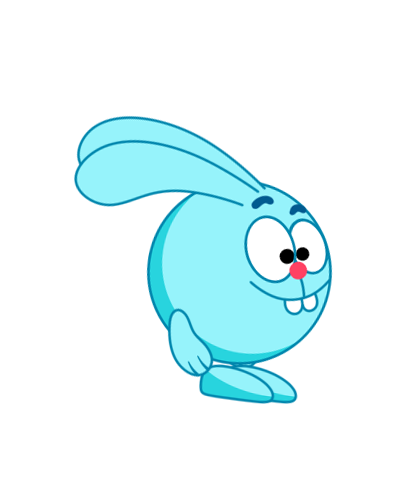
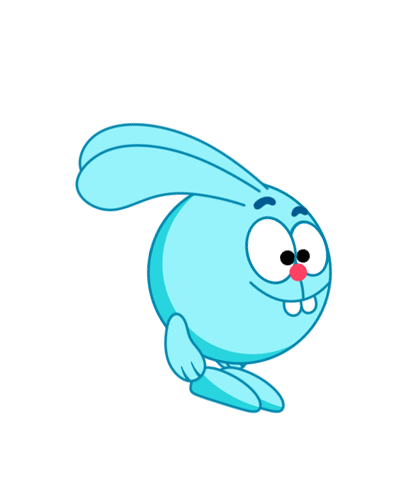
Исправлено: бег, прыжок, разрешение экрана, скорость фона. Высота прыжка может быть не очень точной. Надо её подровнять в файле Player.java, это параметры jumpVelocity и gravity на 17 и 18 строчках (сила гравитации должна быть в -2 раза больше силы прыжка, сейчас там прыжок 1500f и гравитация -3000f

diff --git a/core/src/main/java/com/mygdx/game/player/AnimationManager.java b/core/src/main/java/com/mygdx/game/player/AnimationManager.java
@@ -10,16 +10,20 @@ import com.badlogic.gdx.utils.Disposable;
 public class AnimationManager implements Disposable {
     private final Animation<TextureRegion> runningAnimation;
     private final Animation<TextureRegion> jumpingAnimation;
-    private float stateTime;
+    private float runningStateTime; // Отдельное время для бега
+    private float jumpingStateTime; // Отдельное время для прыжка
 
     public AnimationManager(String runningPath, String jumpingPath) {
         this.runningAnimation = createAnimation(runningPath, 1/24f, Animation.PlayMode.LOOP);
-        this.jumpingAnimation = createAnimation(jumpingPath, 1/24f, Animation.PlayMode.LOOP);
-        this.stateTime = 0f;
+        this.jumpingAnimation = createAnimation(jumpingPath, 1/24f, Animation.PlayMode.LOOP); // Прыжок тоже может быть LOOP, если он короткий и должен повторяться в воздухе, или NORMAL, если он однократный. Для вашей проблемы это не так важно, как сброс stateTime.
+        this.runningStateTime = 0f;
+        this.jumpingStateTime = 0f;
     }
 
     private Animation<TextureRegion> createAnimation(String path, float frameDuration, Animation.PlayMode playMode) {
         Array<TextureRegion> frames = new Array<>();
+        // Убедитесь, что у вас действительно 24 кадра для каждой анимации,
+        // или сделайте количество кадров параметром или определите его динамически.
         for (int i = 1; i <= 24; i++) {
             Texture texture = new Texture(Gdx.files.internal(path + "/" + i + ".png"));
             frames.add(new TextureRegion(texture));
@@ -29,14 +33,29 @@ public class AnimationManager implements Disposable {
         return animation;
     }
 
-    public void update(float deltaTime) {
-        stateTime += deltaTime;
+    // Обновляем время только для активной анимации
+    public void update(float deltaTime, boolean isJumping) {
+        if (isJumping) {
+            jumpingStateTime += deltaTime;
+        } else {
+            runningStateTime += deltaTime;
+        }
     }
 
     public TextureRegion getFrame(boolean isJumping) {
         return isJumping ?
-            jumpingAnimation.getKeyFrame(stateTime) :
-            runningAnimation.getKeyFrame(stateTime);
+                jumpingAnimation.getKeyFrame(jumpingStateTime) : // Используем jumpingStateTime
+                runningAnimation.getKeyFrame(runningStateTime);   // Используем runningStateTime
+    }
+
+    // Метод для сброса времени анимации бега
+    public void resetRunningAnimation() {
+        runningStateTime = 0f;
+    }
+
+    // Метод для сброса времени анимации прыжка
+    public void resetJumpingAnimation() {
+        jumpingStateTime = 0f;
     }
 
     @Override
@@ -45,9 +64,14 @@ public class AnimationManager implements Disposable {
         disposeAnimation(jumpingAnimation);
     }
 
+    // Немного улучшенная версия disposeAnimation
     private void disposeAnimation(Animation<TextureRegion> animation) {
-        for (TextureRegion region : animation.getKeyFrames()) {
-            region.getTexture().dispose();
+        // getKeyFrames() возвращает TextureRegion[], а не Object[]
+        TextureRegion[] frames = animation.getKeyFrames();
+        for (TextureRegion frame : frames) {
+            if (frame != null && frame.getTexture() != null) {
+                frame.getTexture().dispose();
+            }
         }
     }
 }

diff --git a/core/src/main/java/com/mygdx/game/player/Player.java b/core/src/main/java/com/mygdx/game/player/Player.java
@@ -7,58 +7,63 @@ import com.badlogic.gdx.graphics.g2d.TextureRegion;
 import com.badlogic.gdx.math.Vector2;
 
 public class Player {
-    private final Vector2 position; // Фиксированная позиция по X
+    private final Vector2 position;
     private final float spriteWidth;
     private final float spriteHeight;
     private final AnimationManager animationManager;
 
-    // Физика прыжка
     private float verticalVelocity;
     private boolean isJumping;
-    private final float jumpVelocity = 750f;
-    private final float gravity = -1800f;
+    private final float jumpVelocity = 1500f; // Сила прыжка
+    private final float gravity = -3000f; // Сила гравитации
     private final float groundY;
 
     public Player(float x, float y, float screenHeight) {
-        this.spriteHeight = screenHeight / 4f; // 1/4 высоты экрана
+        this.spriteHeight = 480; // Высота спрайта Кроша
         this.position = new Vector2(x, y);
-        this.groundY = y; // Начальная Y позиция = уровень земли
+        this.groundY = y;
 
-        // Рассчитываем ширину с сохранением пропорций
         TextureRegion sampleFrame = new TextureRegion(new Texture(Gdx.files.internal("characters/krosh/running/1.png")));
         float aspectRatio = sampleFrame.getRegionWidth() / (float)sampleFrame.getRegionHeight();
         this.spriteWidth = spriteHeight * aspectRatio;
-        sampleFrame.getTexture().dispose();
+        sampleFrame.getTexture().dispose(); // Не забываем освобождать текстуру после использования
 
         this.animationManager = new AnimationManager(
-            "characters/krosh/running",
-            "characters/krosh/jumping"
+                "characters/krosh/running",
+                "characters/krosh/jumping"
         );
         this.verticalVelocity = 0;
         this.isJumping = false;
+        // При инициализации персонаж на земле и бежит, так что анимация бега должна быть активна
+        // Ее stateTime уже 0f по умолчанию в AnimationManager
     }
 
     public void update(float deltaTime) {
-        // Только вертикальное движение (прыжок)
+        boolean wasJumping = isJumping; // Запоминаем состояние до обновления физики
+
         if (isJumping) {
             verticalVelocity += gravity * deltaTime;
             position.y += verticalVelocity * deltaTime;
 
-            // Проверка земли
             if (position.y <= groundY) {
                 position.y = groundY;
                 verticalVelocity = 0;
                 isJumping = false;
+                // Персонаж приземлился, сбрасываем анимацию бега, чтобы она началась с 1 кадра
+                animationManager.resetRunningAnimation();
             }
         }
 
-        animationManager.update(deltaTime);
+        // Передаем текущее состояние прыжка в AnimationManager
+        animationManager.update(deltaTime, isJumping);
     }
 
     public void jump() {
         if (!isJumping) {
             verticalVelocity = jumpVelocity;
             isJumping = true;
+            // Персонаж начал прыжок, сбрасываем анимацию прыжка
+            animationManager.resetJumpingAnimation();
         }
     }
 

diff --git a/core/src/main/java/com/mygdx/game/Main.java b/core/src/main/java/com/mygdx/game/Main.java
@@ -9,24 +9,26 @@ import com.badlogic.gdx.graphics.g2d.SpriteBatch;
 import com.mygdx.game.player.Player;
 import com.mygdx.game.world.Background;
 
+
 public class Main extends ApplicationAdapter {
     private SpriteBatch batch;
     private OrthographicCamera camera;
     private Player player;
     private Background background;
 
-    private static final float VIRTUAL_WIDTH = 800;
-    private static final float VIRTUAL_HEIGHT = 600;
+    private static final float VIRTUAL_WIDTH = 1920;
+    private static final float VIRTUAL_HEIGHT = 1080;
     private boolean gameStarted = false;
 
     @Override
     public void create() {
+        boolean fullscreen = Gdx.graphics.isFullscreen();
         batch = new SpriteBatch();
         camera = new OrthographicCamera();
         camera.setToOrtho(false, VIRTUAL_WIDTH, VIRTUAL_HEIGHT);
 
         background = new Background("environment/background.png");
-        player = new Player(100, 100, VIRTUAL_HEIGHT); // X=100, Y=100 (над землей)
+        player = new Player(100, 150, VIRTUAL_HEIGHT); // X=100, Y=100 (над землей)
     }
 
     @Override
@@ -40,7 +42,7 @@ public class Main extends ApplicationAdapter {
             player.update(deltaTime);     // Физика прыжка
         }
 
-        // Очистка экрана
+        // Очистка экрана\
         Gdx.gl.glClearColor(0.1f, 0.1f, 0.1f, 1);
         Gdx.gl.glClear(GL20.GL_COLOR_BUFFER_BIT);
 

diff --git a/core/src/main/java/com/mygdx/game/world/Background.java b/core/src/main/java/com/mygdx/game/world/Background.java
@@ -7,7 +7,7 @@ import com.badlogic.gdx.graphics.g2d.SpriteBatch;
 
 public class Background {
     private Texture texture; //текстура фона
-    private float scrollSpeed = 200f; // Скорость прокрутки фона (пикселей в секунду)
+    private float scrollSpeed = 960f; // Скорость прокрутки фона (пикселей в секунду)
     private float offsetX = 0; //смещение фона по Х
     private float textureWidth; //ширина текстуры
     private float textureHeight; //высота текстуры
@@ -24,8 +24,8 @@ public class Background {
     }
 
     public void render(SpriteBatch batch, OrthographicCamera camera) {
-        float scale = camera.viewportHeight / textureHeight; //маштабируем для заполнения экрана по высоте
-        float scaledWidth = textureWidth * scale; //ширена текстуры
+        float scale = camera.viewportHeight / textureHeight; //масштабируем для заполнения экрана по высоте
+        float scaledWidth = textureWidth * scale; //ширина текстуры
 
         // Рассчитываем позиции для бесшовного скроллинга
         float firstX = ((camera.position.x - camera.viewportWidth/2) + offsetX) % scaledWidth;

diff --git a/lwjgl3/src/main/java/com/mygdx/game/lwjgl3/Lwjgl3Launcher.java b/lwjgl3/src/main/java/com/mygdx/game/lwjgl3/Lwjgl3Launcher.java
@@ -6,7 +6,7 @@ import com.mygdx.game.Main;
 
 /** Launches the desktop (LWJGL3) application. */
 public class Lwjgl3Launcher {
-    public static void main(String[] args) {
+    public static void main (String[] arg) {
         if (StartupHelper.startNewJvmIfRequired()) return; // This handles macOS support and helps on Windows.
         createApplication();
     }
